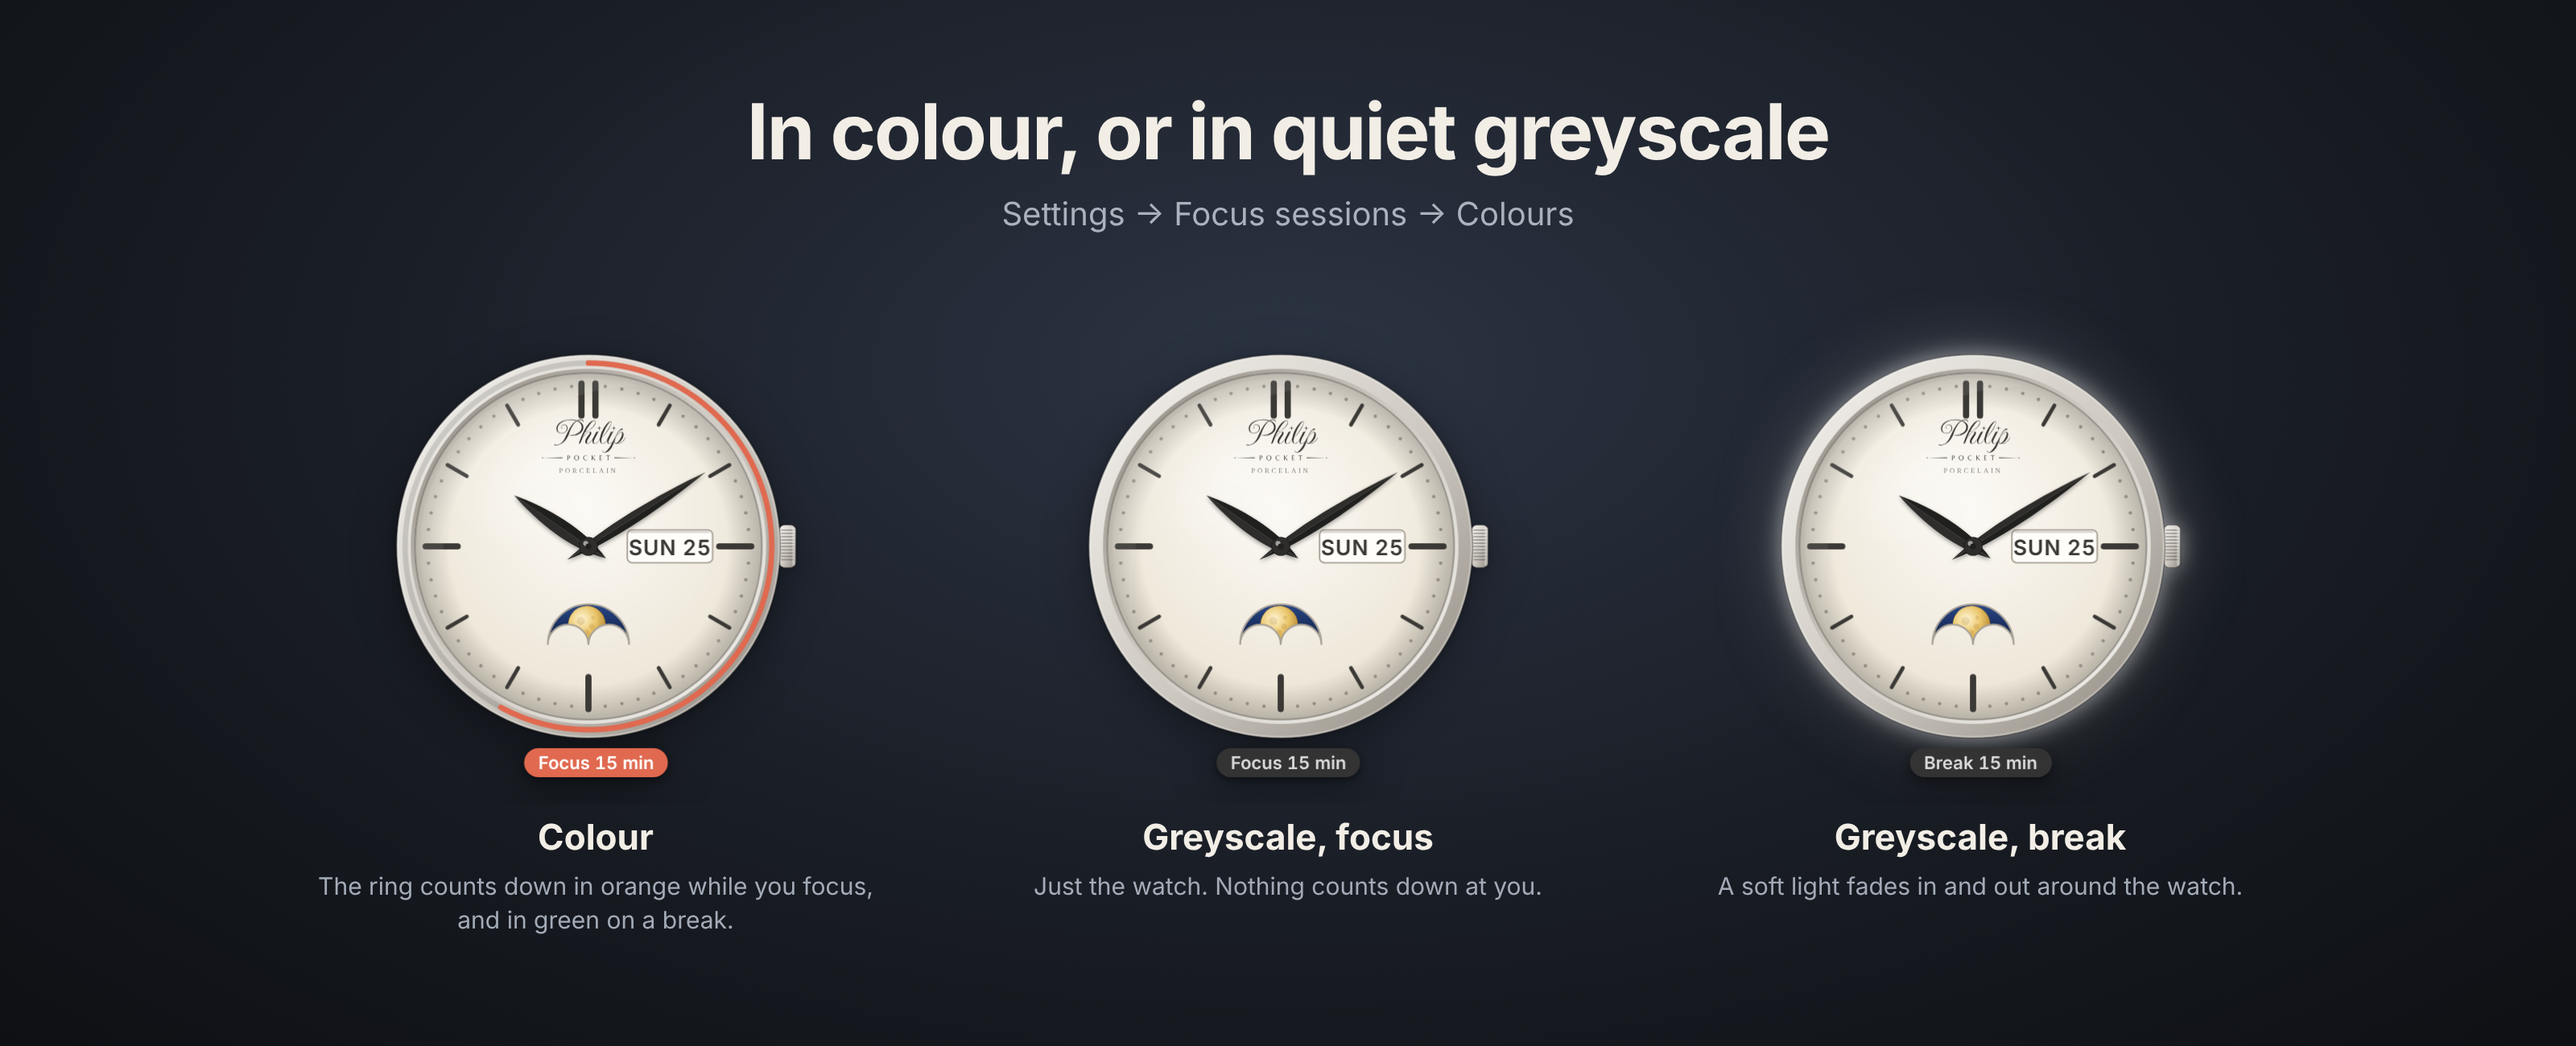
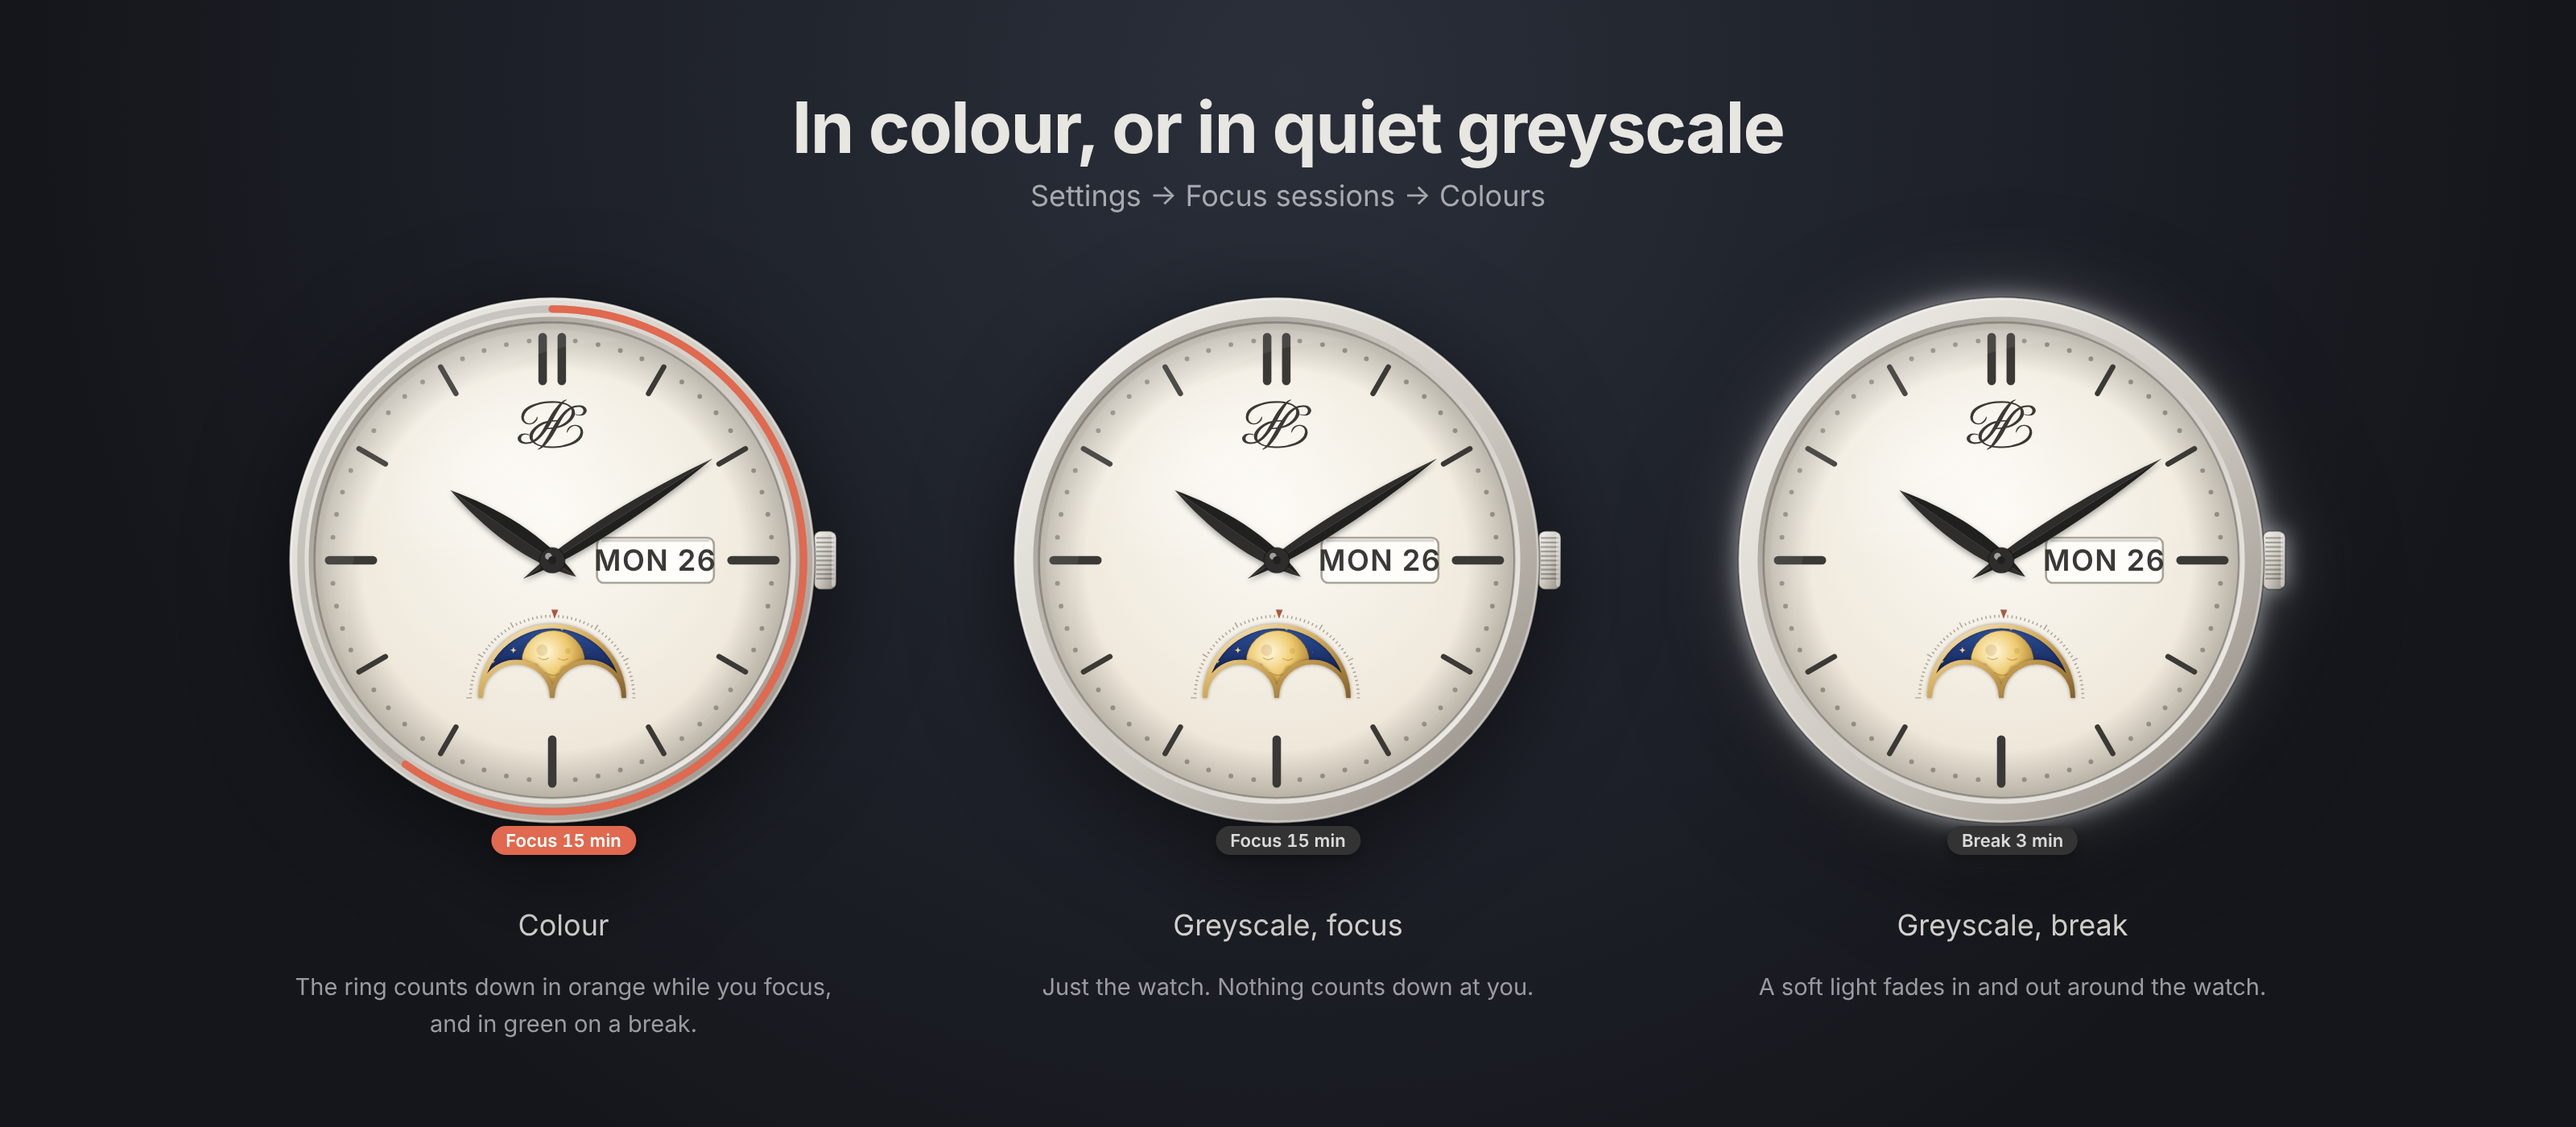
Refresh every README image and animation for the current version
All pictures and GIFs are rendered from the current plugin with a made-up
vault (a lighthouse novel and a garden journal), including the focus
session demo, the open heart movement and the time's-up animation.

diff --git a/main.js b/main.js
@@ -4054,7 +4054,7 @@ class ProjectModal extends Modal {
     const { contentEl } = this;
     contentEl.addClass('pw-project-modal');
     this.titleEl.setText(this.project ? 'Edit project' : 'New project');
-    const input = contentEl.createEl('input', { cls: 'pw-project-input', attr: { type: 'text', placeholder: 'Project name, like Proposal', value: this.name } });
+    const input = contentEl.createEl('input', { cls: 'pw-project-input', attr: { type: 'text', placeholder: 'Project name, like Garden journal', value: this.name } });
     input.addEventListener('input', () => {
       this.name = input.value;
     });
@@ -4825,7 +4825,7 @@ class StatsView extends ItemView {
     const card = this.card(page, 'Projects', p.settings.projects.length ? `How your time splits, last ${r.n} days` : '');
     if (!p.settings.projects.length) {
       const empty = card.createDiv('pw-projects-empty');
-      empty.createDiv({ text: 'Track your time toward a project, like your proposal now and your dissertation after the deadline. Each gets its own colour, and you can show one, several or all of them here.' });
+      empty.createDiv({ text: 'Track your time toward a project, like a novel you are drafting and a garden journal on the side. Each gets its own colour, and you can show one, several or all of them here.' });
       empty.createEl('button', { cls: 'mod-cta', text: 'New project' }).addEventListener('click', () => new ProjectModal(this.app, p).open());
       return;
     }

diff --git a/README.md b/README.md
@@ -9,12 +9,12 @@ A fine timepiece that sits over your notes, with a Pomodoro timer for a steady r
 - **Twenty-one watches, each its own.** Every face carries the Philip Pocket monogram, the interlaced PP (engraved into Malachite and Meteorite), and comes with its own hands and complications: a date, small seconds, your words today or a goal dial. Two have a moon phase, each in its own window: Porcelain's classic arch with gold moons, and Midnight's round window onto a realistic moon, with its age in days around it. Regulator gives the minutes the centre and turns the hours on a small dial of their own, Malachite is cut from polished green stone, Panda has a panda's face, and Open heart shows its movement through a heart-shaped window. You can also pick your own.
 - **Two square watches**: Koi, painted by hand, with two koi circling in a green pond past lily pads and a lotus, and Deco, black lacquer in stepped gold lines whose small seconds is a rising sun.
 - **Slim digital watches** that show just the time: Hairline, bare numerals in your theme's colours that fade back until you point at them; Capsule, a slim pill that fills up with your session; and Column, the hours over the minutes in a narrow strip.
-- **Two painted dials**: Sakura, a cherry branch in gold lacquer with mother-of-pearl blossoms on black, and Nocturne, a mountain lake at dusk whose moon is tonight's moon.
+- **Three painted dials**: Sakura, a cherry branch in gold lacquer with mother-of-pearl blossoms on black, Nocturne, a mountain lake at dusk whose moon is tonight's moon, and Koi, painted by hand.
 - **Snaps where you put it.** Drag it over a pane and it snaps to a corner or edge. Drop it on a pane's tab bar and it tucks in there, sized to fit the bar, analog or digital. Drop it on the ribbon or status bar to snap it to the window, or hold Alt to place it anywhere.
 - **Any size**: drag the handle on the watch, or hold Alt and scroll over it.
 - **Click it** for your calendar and stats. Right-click it to start a focus session.
 
-![Sixteen watches](images/make-it-yours.png)
+![Twenty-one watches](images/make-it-yours.png)
 
 ![Three new watches: Pomodoro, Regulator and Malachite](images/new-watches.png)
 
@@ -22,7 +22,7 @@ A fine timepiece that sits over your notes, with a Pomodoro timer for a steady r
 
 ![Slim watches, tucked into a tab bar](images/tab-bar.png)
 
-![Two painted dials](images/painted-dials.png)
+![Three painted dials: Sakura, Nocturne and Koi](images/painted-dials.png)
 
 ## Focus and breaks
 
@@ -44,7 +44,7 @@ A fine timepiece that sits over your notes, with a Pomodoro timer for a steady r
 - **Calendar**: click the watch for today, focus sessions and a calendar of your time, with where each day's time went. Click a note to open it.
 - **Your stats, on a page of their own**: the past year as a square for every day, then for the last 7, 30 or 90 days, the year or all time: your time against the period before, every day against your goal, the hours you work on a 24-hour dial, your week, your writing, the notes and folders your time went to, your records, and a table of every day. Open it from the shelf, the watch's menu or the command palette.
 - **Time in each note**: the note you're in gets the time too. Renamed notes and folders keep their time.
-- **Projects**: track your time toward a project, like your proposal now and your dissertation after the deadline. Each has its own colour. Change the project from the shelf, the stats page or the command palette, and lock it so a stray click can't switch it. On the stats page, turn projects on and off to see one, several or all of them: the page takes a project's colour when it shows just one, and stacks them by colour when it shows several. Time tracked without a project, or on the wrong one, can move to the right one: for a day, a range of days or between two dates, with its notes, hours, words and focus sessions, and an undo.
+- **Projects**: track your time toward a project, like a novel you are drafting and a garden journal on the side. Each has its own colour. Change the project from the shelf, the stats page or the command palette, and lock it so a stray click can't switch it. On the stats page, turn projects on and off to see one, several or all of them: the page takes a project's colour when it shows just one, and stacks them by colour when it shows several. Time tracked without a project, or on the wrong one, can move to the right one: for a day, a range of days or between two dates, with its notes, hours, words and focus sessions, and an undo.
 - **Status bar**: today's time and the minutes left in a session.
 
 ![Your stats](images/stats.png)
